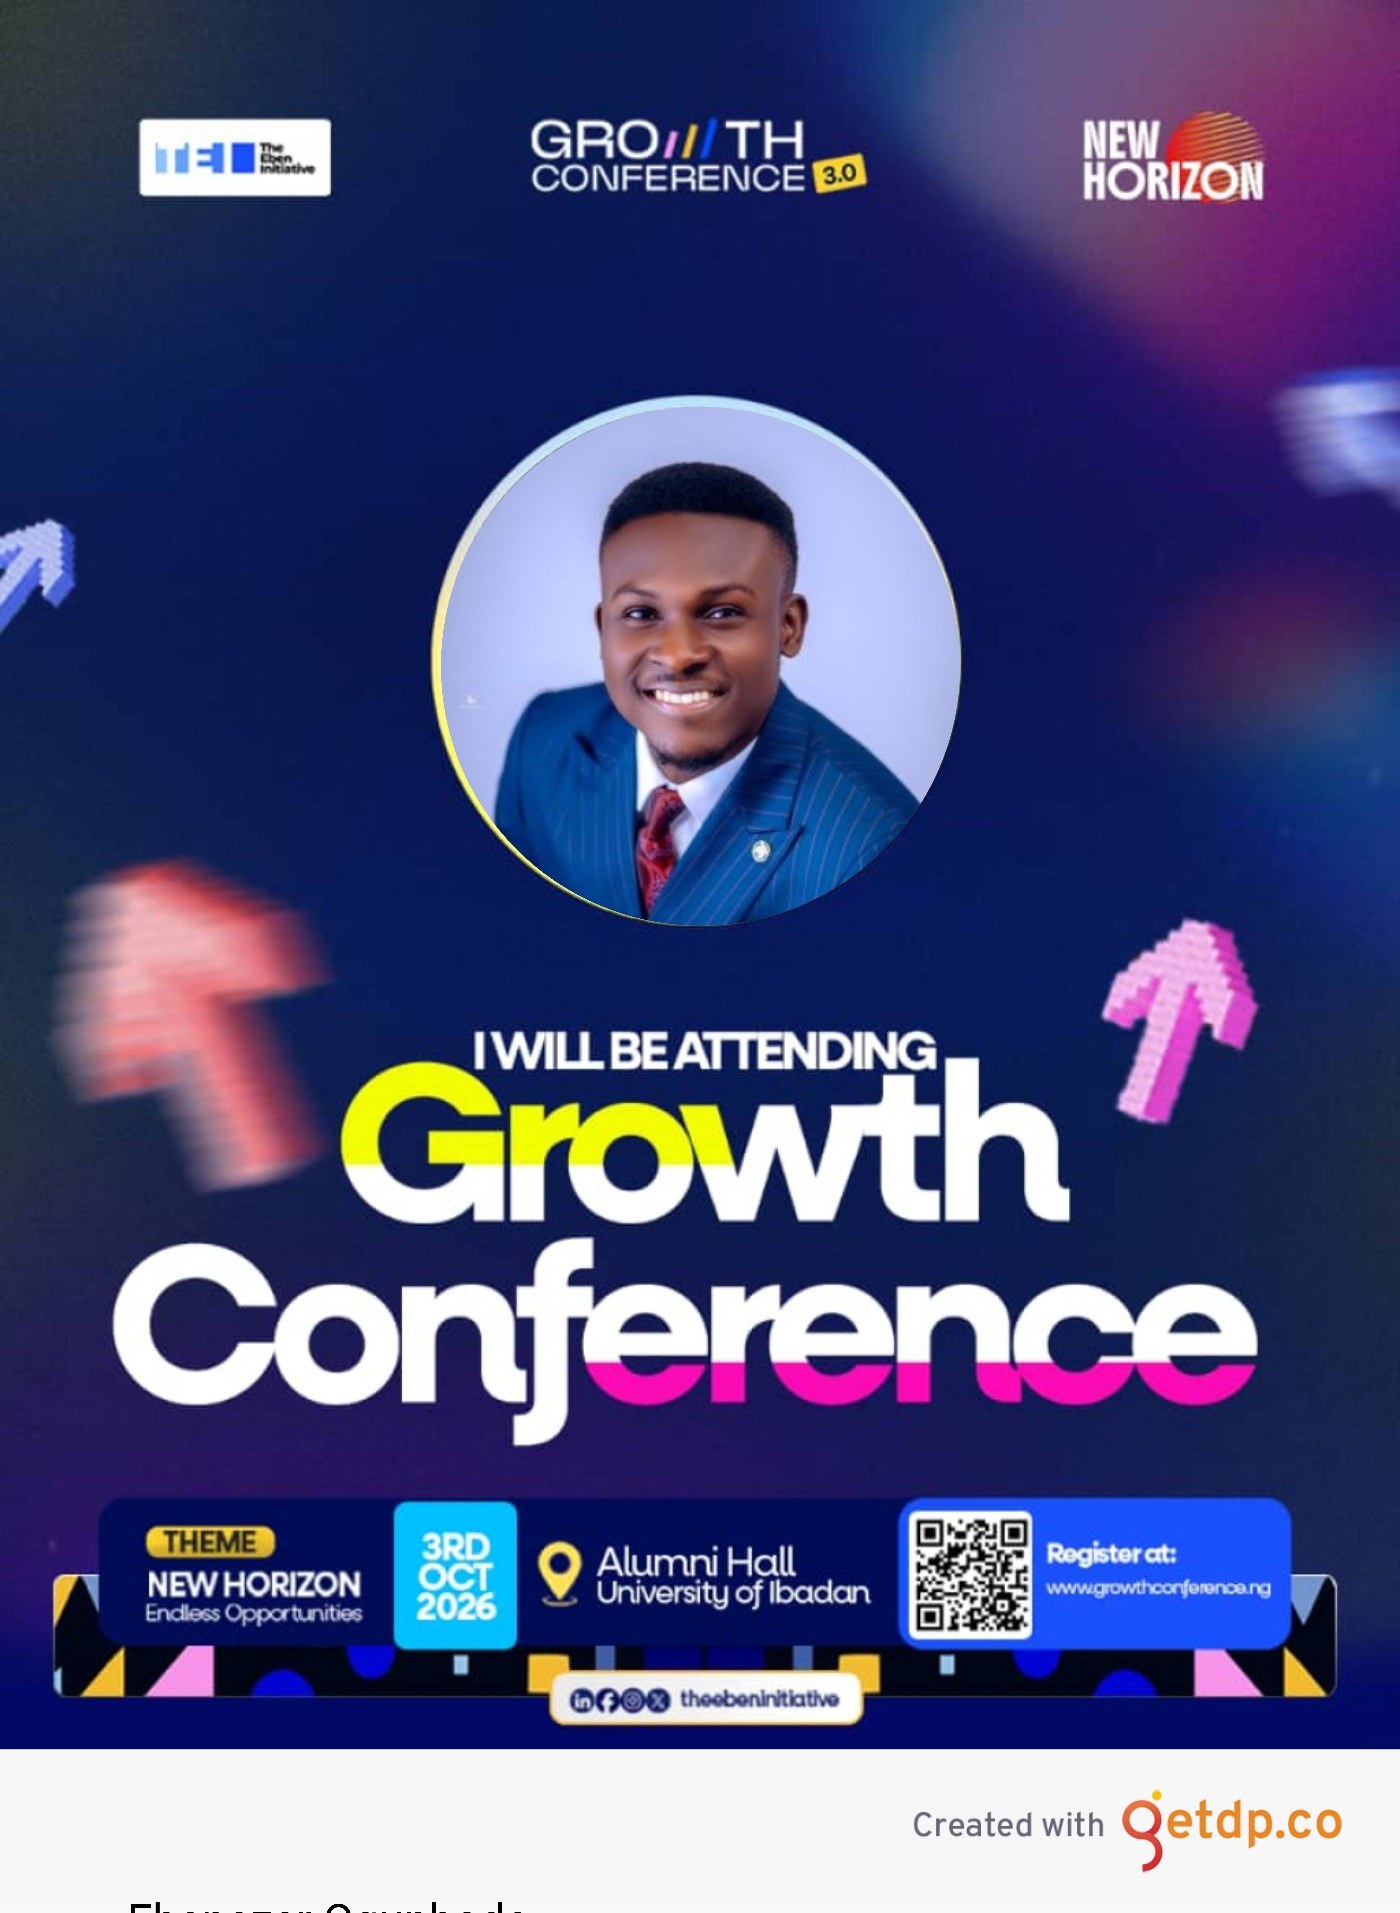
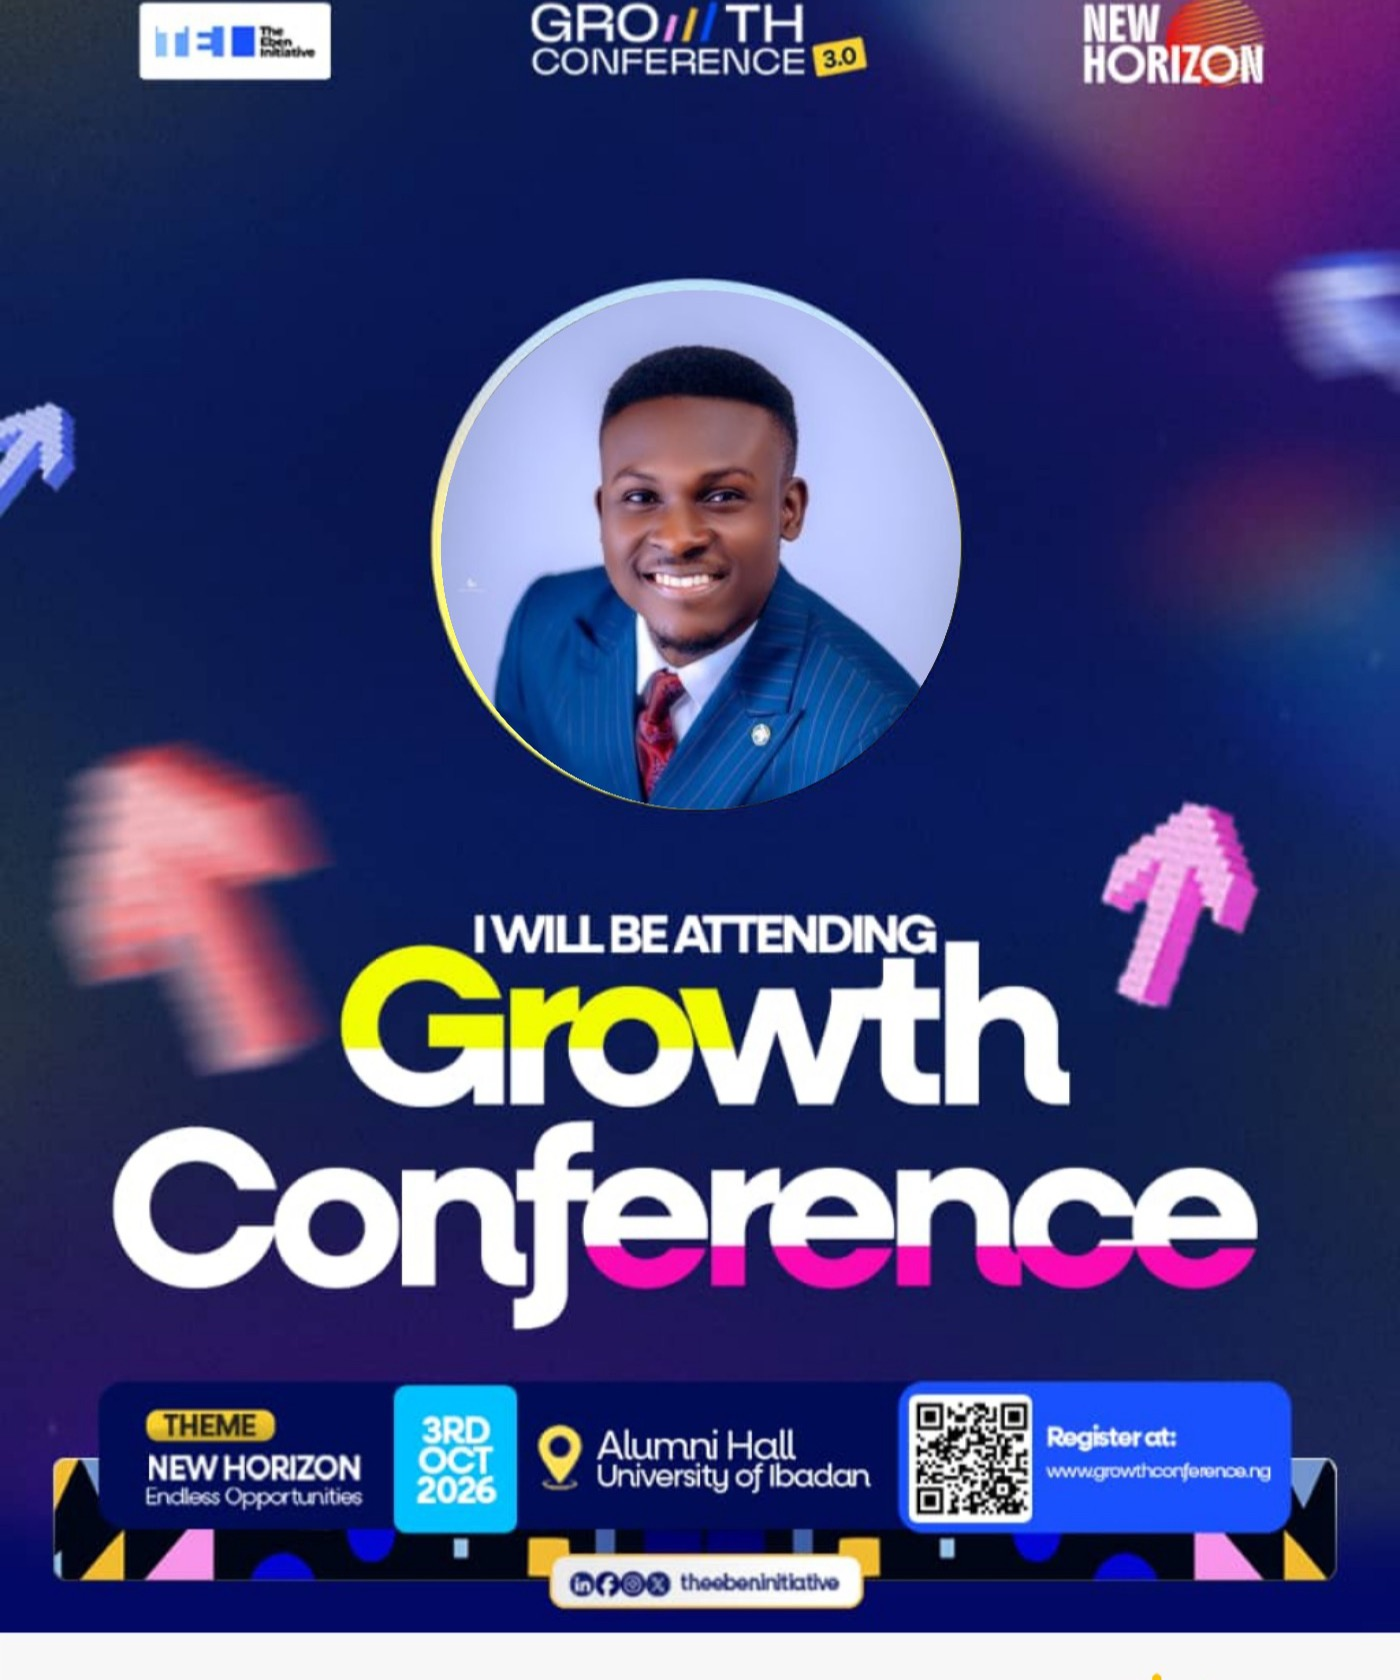
growth

diff --git a/src/components/Testimonials/Testimonials.jsx b/src/components/Testimonials/Testimonials.jsx
@@ -3,6 +3,17 @@ import Reveal from '../Reveal'
 
 const TESTIMONIALS = [
   {
+    quote: [
+      '"I will never forget the encounter I had during Growth Conference 1.0. Just last month, I was reflecting on my journey and growth so far, and my mind went straight back to Growth Conference 1.0. Before I knew it, tears started rolling down my cheeks.',
+      'Funny enough, I didn’t plan to attend that day. I was low on cash and almost gave up. But thank God He orchestrated my steps to that venue. Looking back now, I know it was divine.',
+      'That day changed me. I was truly blessed. It felt as if the entire program was tailored just for me. I walked in with questions, doubts and limitations, but I left with clarity, direction and faith. The teachings and the atmosphere planted seeds in me that I’m still growing with today.',
+      'To the Convener and the entire team: thank you for saying yes to God. Because of your obedience, lives like mine are being transformed. Because of your sacrifice, I discovered truths I’m still standing on. Because of your commitment, my perspective about growth, purpose and God’s work in me shifted completely.',
+      'My heart is full of gratitude, and my soul will not stop praying for you. I’m believing God that I’ll get the opportunity to be part of Growth Conference 3.0; not just as an attendee, but as someone who has grown, and is still growing, through your program.',
+      'Thank you for blessing me. Thank you for being vessels God used to shape my life. I’m a testimony of what God can do through one program, one team and one yes."',
+    ],
+    initial: 'A', color: 'var(--color-blue)', name: 'Anonymous', role: 'Attendee, Growth Conference 1.0',
+  },
+  {
     quote: '"No edition of Growth Conference has ever left me the same. Having attended and volunteered at both, GC is genuinely impactful, inspiring, and thought-provoking. Every session pushes you to reach higher and take action."',
     initial: 'L', color: 'var(--color-gold)', name: 'Lydia Oyeniran', role: 'Career Professional, Ibadan',
   },
@@ -25,17 +36,6 @@ const TESTIMONIALS = [
   {
     quote: '"With the privilege of serving as a volunteer for Growth Conference 1.0 & 2.0; it gave me an added advantage of gaining understanding & experience into operations of the corporate world. It served as a motivating factor to strive for growth in career, excellence & character."',
     initial: 'P', color: 'var(--color-pink)', name: 'Praise Fadare', role: 'NYSC Member, Ilorin',
-  },
-  {
-    quote: [
-      '"I will never forget the encounter I had during Growth Conference 1.0. Just last month, I was reflecting on my journey and growth so far, and my mind went straight back to Growth Conference 1.0. Before I knew it, tears started rolling down my cheeks.',
-      'Funny enough, I didn’t plan to attend that day. I was low on cash and almost gave up. But thank God He orchestrated my steps to that venue. Looking back now, I know it was divine.',
-      'That day changed me. I was truly blessed. It felt as if the entire program was tailored just for me. I walked in with questions, doubts and limitations, but I left with clarity, direction and faith. The teachings and the atmosphere planted seeds in me that I’m still growing with today.',
-      'To the Convener and the entire team: thank you for saying yes to God. Because of your obedience, lives like mine are being transformed. Because of your sacrifice, I discovered truths I’m still standing on. Because of your commitment, my perspective about growth, purpose and God’s work in me shifted completely.',
-      'My heart is full of gratitude, and my soul will not stop praying for you. I’m believing God that I’ll get the opportunity to be part of Growth Conference 3.0; not just as an attendee, but as someone who has grown, and is still growing, through your program.',
-      'Thank you for blessing me. Thank you for being vessels God used to shape my life. I’m a testimony of what God can do through one program, one team and one yes."',
-    ],
-    initial: 'A', color: 'var(--color-blue)', name: 'Anonymous', role: 'Attendee, Growth Conference 1.0',
   },
 ]
 

diff --git a/src/components/Speakers/Speakers.jsx b/src/components/Speakers/Speakers.jsx
@@ -10,7 +10,7 @@ import adesuwa from '../../assets/images/adesuwa-olanrewaju-dada.jpg'
 const SPEAKERS = [
   {
     name: 'Dr. Seun Fakorede',
-    role: 'Executive Adviser on Youth & Sports, Oyo State | Founder, Home Advantage Africa',
+    role: 'Executive Adviser to the Governor on Youth & Sports, Oyo State | Founder, Home Advantage Africa',
     tag: 'Keynote Speaker',
     photo: seun,
     photoPosition: 'top',

diff --git a/src/components/PersonalizedDP/PersonalizedDP.jsx b/src/components/PersonalizedDP/PersonalizedDP.jsx
@@ -10,7 +10,7 @@ export default function PersonalizedDP() {
             <img
               src={sample}
               alt="Sample personalized 'I will be attending Growth Conference' design"
-              className="w-full aspect-[1400/1913] object-cover rounded-2xl"
+              className="w-full aspect-1400/1680 object-cover rounded-2xl"
             />
           </Reveal>
 

diff --git a/src/components/Sponsors/Sponsors.jsx b/src/components/Sponsors/Sponsors.jsx
@@ -1,8 +1,10 @@
 import Reveal from '../Reveal'
 import askTheDentist from '../../assets/images/partner-ask-the-dentist.png'
+import dexterEdge from '../../assets/images/partner-dexteredge.png'
 
 const PARTNERS = [
   { name: 'AskThe Dentist Clinics', logo: askTheDentist },
+  { name: 'DexterEdge Consult', logo: dexterEdge },
 ]
 
 export default function Sponsors() {
